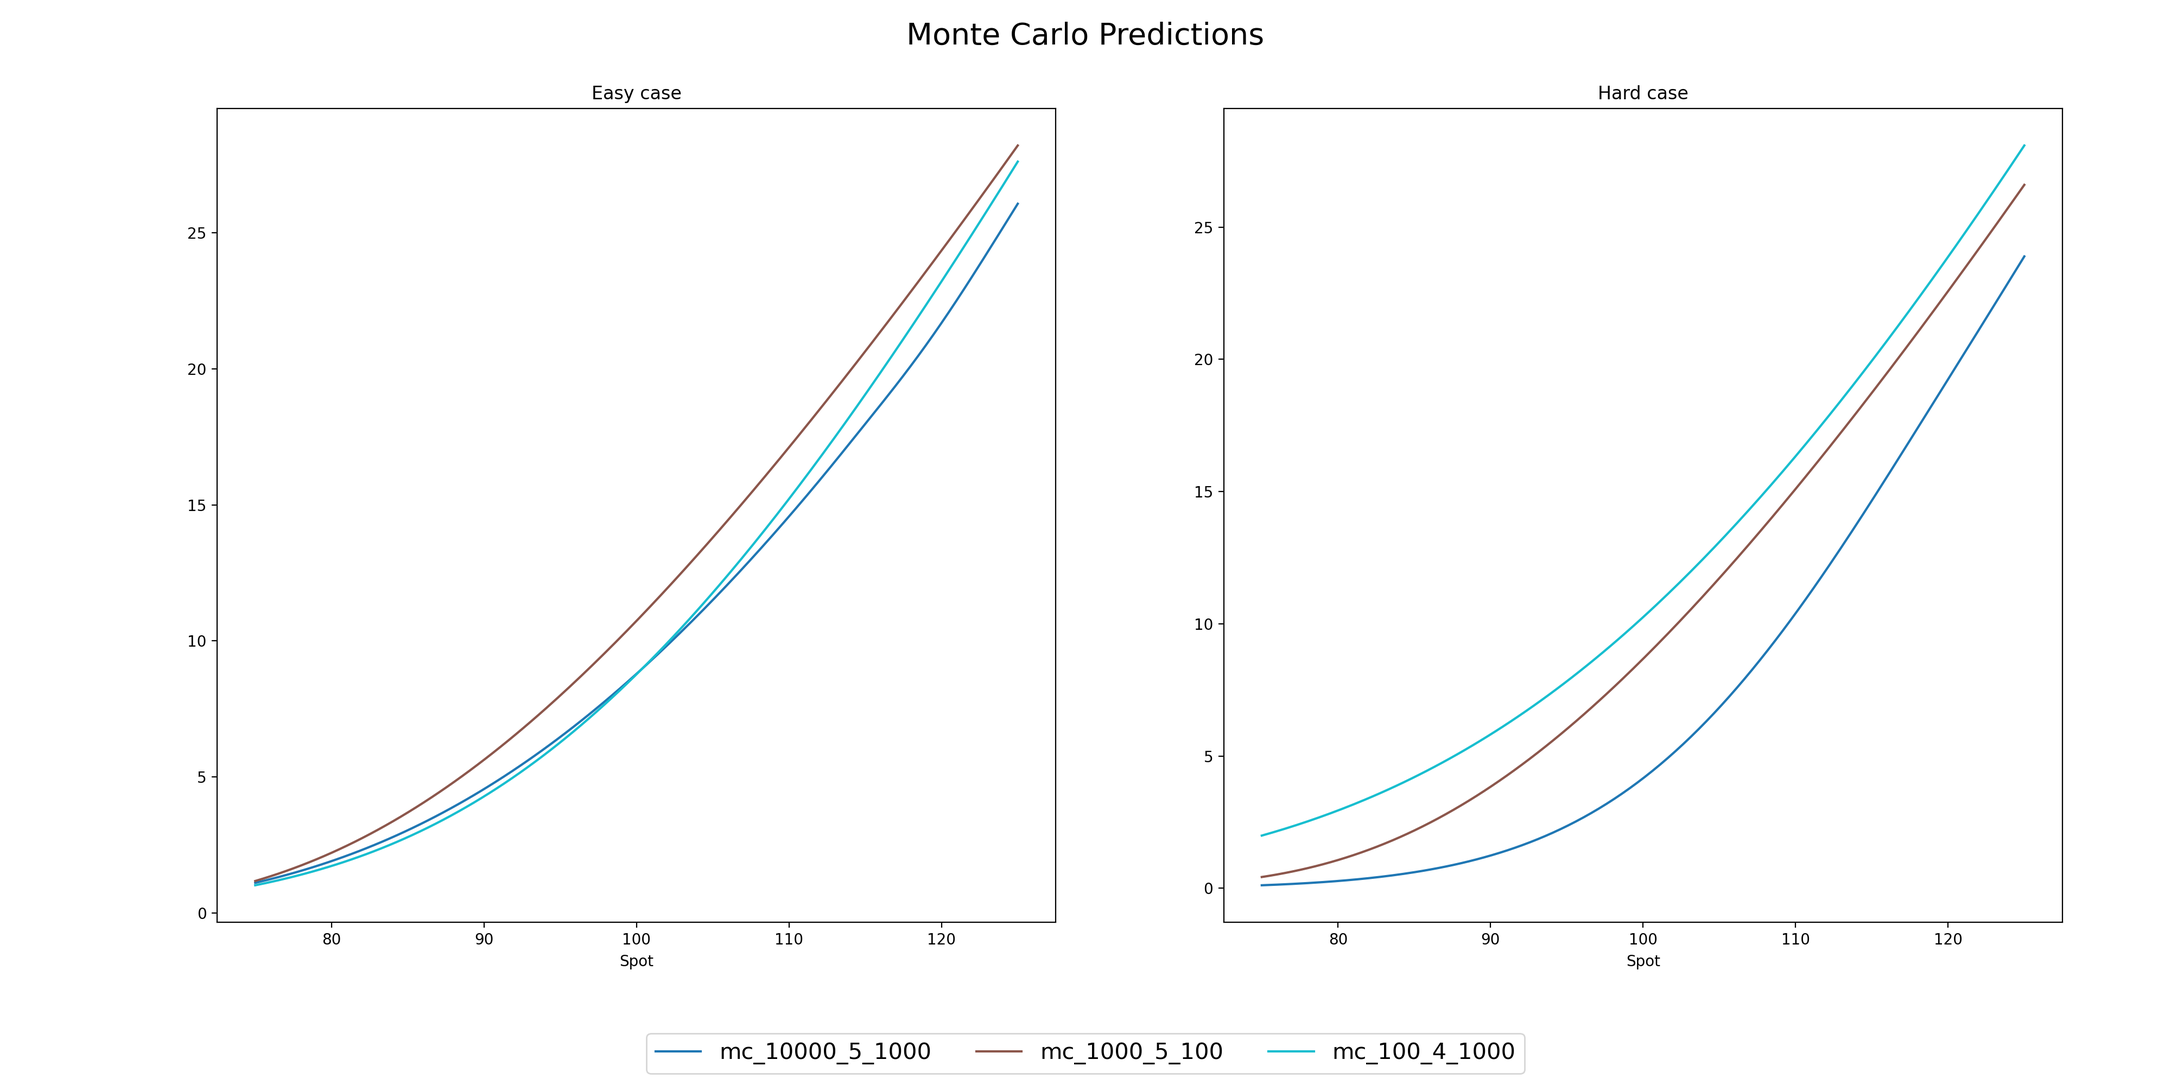
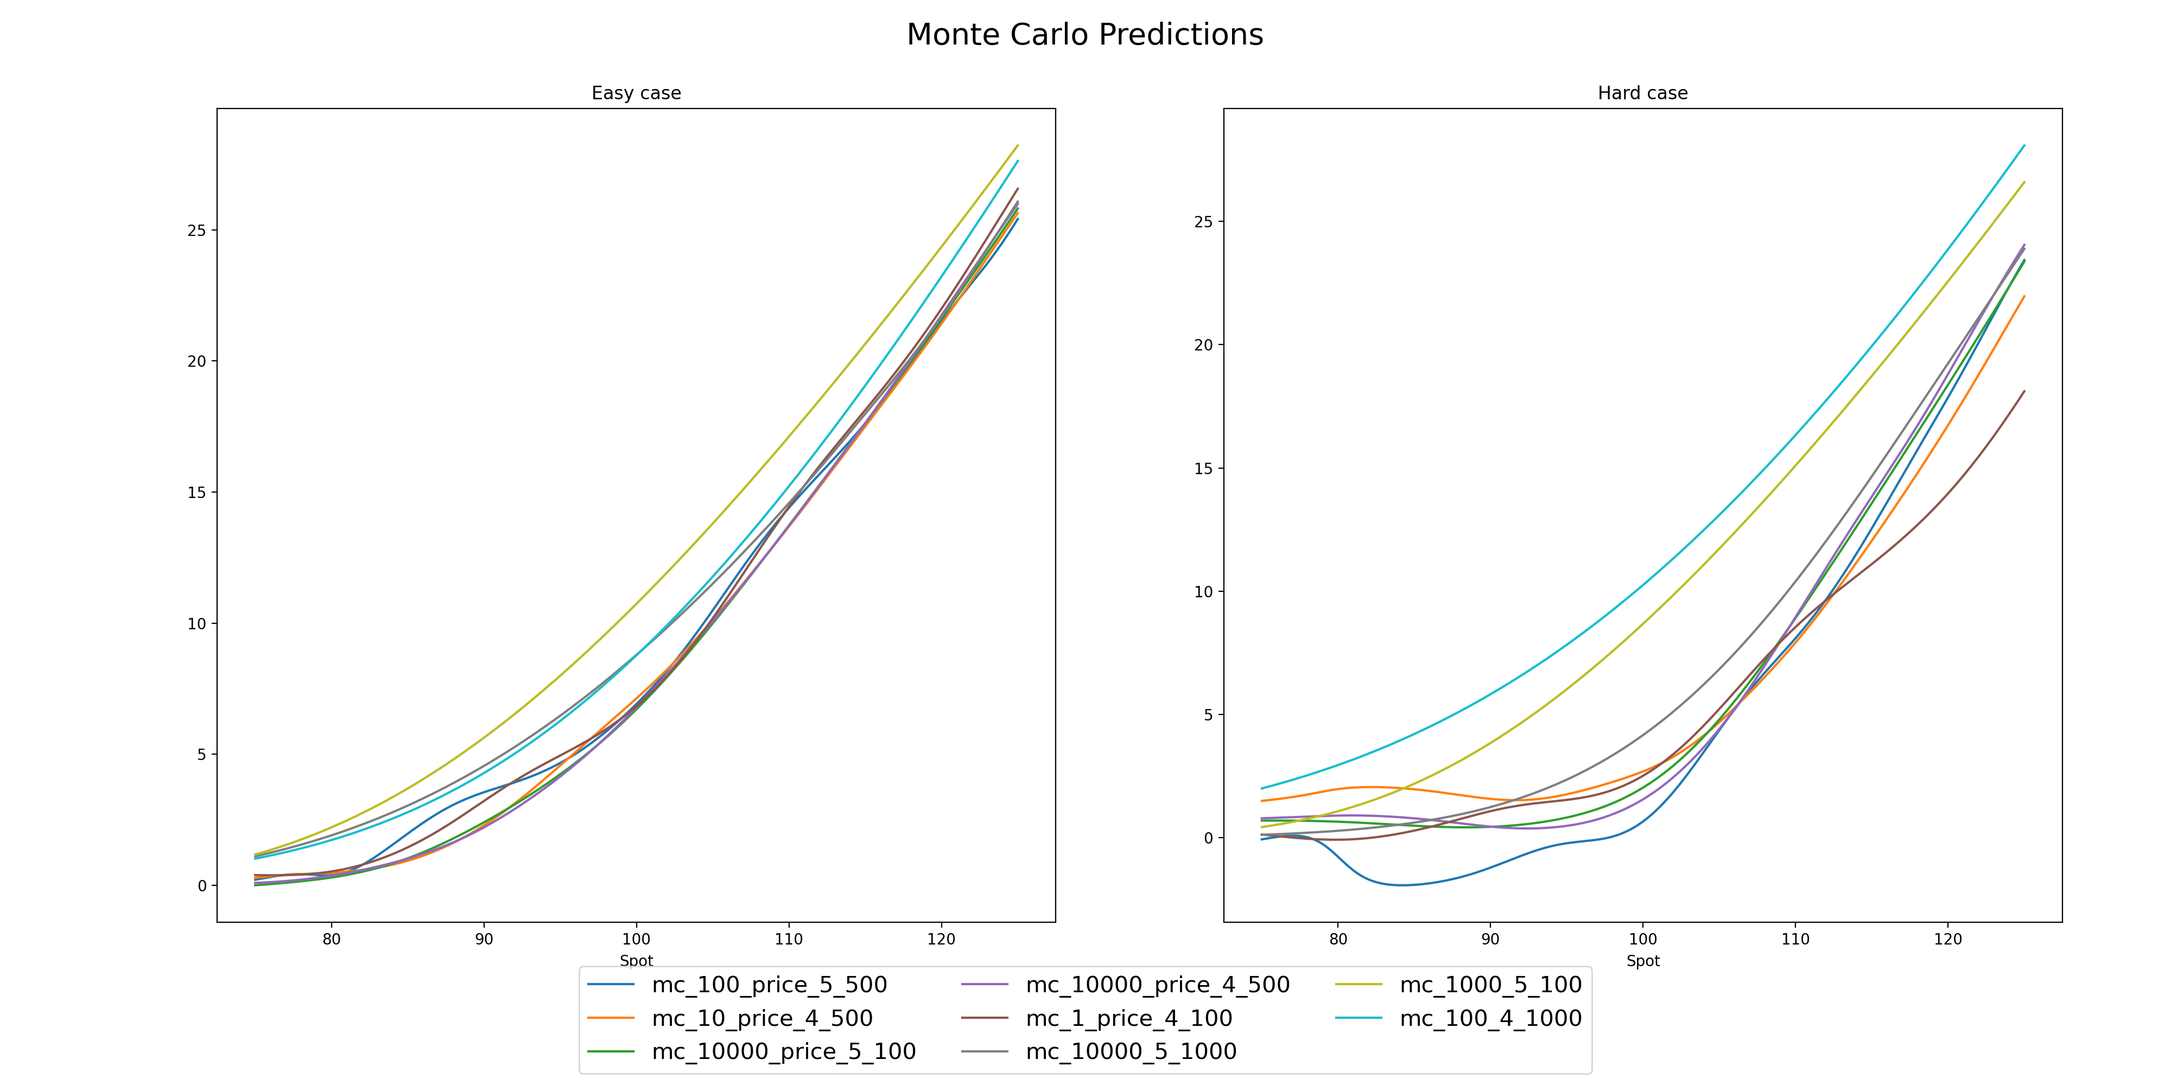
...

diff --git a/Thesis/Heston/LearningRate.py b/Thesis/Heston/LearningRate.py
@@ -1,0 +1,226 @@
+import numpy as np
+import time
+from keras.optimizers import Adam
+from keras.models import Sequential
+from keras.callbacks import LearningRateScheduler, EarlyStopping, ModelCheckpoint
+from sklearn.preprocessing import MinMaxScaler, StandardScaler
+from keras import backend as k
+import tikzplotlib
+import joblib
+import sys
+import os
+import matplotlib.pyplot as plt
+sys.path.append(os.getcwd()) # added for calc server support
+
+from Thesis import NeuralNetworkGenerator as nng
+from Thesis.Heston import DataGeneration as dg, ModelGenerator as mg
+from sklearn.model_selection import train_test_split
+
+def NNModelNext(data_set : list, folder : str, model_name : str, n_layers : int, n_neurons : int, nn_type : str,  output_scaling : str, input_scaling : str, LR_lower : float, LR_upper : float) -> float:
+    def lr_schedule(epoch, rate):
+        lower_lr = LR_lower
+        upper_lr = LR_upper
+        no_epochs = 100
+        peak_epoch = 45
+        if epoch <= peak_epoch:
+            lr = lower_lr + epoch / peak_epoch * (upper_lr - lower_lr)
+        elif peak_epoch < epoch < peak_epoch * 2:
+            lr = upper_lr - (epoch - peak_epoch) / peak_epoch * (upper_lr - lower_lr)
+        else:
+            lr = lower_lr * (1 - (epoch - 2 * peak_epoch) / (no_epochs - 2 * peak_epoch)) * (1 - 1 / 10)
+
+        return lr
+    X_train = data_set[0] 
+    X_test = data_set[1]
+    Y_train = data_set[2]
+    Y_test = data_set[3]
+
+    if input_scaling == "standardize":
+        norm_features = StandardScaler()
+        normal_in = True
+    elif input_scaling == "normalize":
+        norm_features = MinMaxScaler()
+        normal_in = True
+    else:
+        normal_in = False
+    
+
+    if output_scaling == "standardize":
+        norm_labels = StandardScaler()
+        normal_out = True
+    elif output_scaling == "normalize":
+        norm_labels = MinMaxScaler()
+        normal_out = True
+    else:
+        normal_out = False
+
+    if normal_in:
+        X_train = norm_features.fit_transform(X_train)
+        X_test = norm_features.transform(X_test)
+
+    if normal_out:
+        Y_train = norm_labels.fit_transform(Y_train)
+        Y_test = norm_labels.transform(Y_test)
+ 
+
+    if nn_type == "normal":
+        model = nng.NN_generator(n_layers, n_neurons, np.shape(X_train)[1], np.shape(Y_train)[1])
+    elif nn_type == "tanh":
+        model = nng.NN_generator_tanh(n_layers, n_neurons, np.shape(X_train)[1], np.shape(Y_train)[1])
+    elif nn_type == "mix":
+        model = nng.NN_generator_mix(n_layers, n_neurons, np.shape(X_train)[1], np.shape(Y_train)[1])
+    else:
+        model = nng.NN_generator_mix_noise(n_layers, n_neurons, np.shape(X_train)[1], np.shape(Y_train)[1])
+
+    adam = Adam()
+
+    model.compile(
+        loss = 'mean_squared_error', #mean squared error
+        optimizer = adam
+    )
+
+    callbacks_list = [
+        LearningRateScheduler(lr_schedule, verbose = 1)
+    ]
+
+    start_time = time.time()
+    loss_history = model.fit(X_train, Y_train, epochs=100, batch_size=1024, verbose = 1, callbacks = callbacks_list, validation_split = 0.1, shuffle=True)
+    stop_time = time.time()
+
+    return loss_history
+
+def NN_mc_model_1(data_set : list, folder : str, model_name : str, n_layers : int, n_neurons : int, nn_type : str,  output_scaling : str, input_scaling : str, include_zero : bool, LR_lower : float, LR_upper : float, special_type : str = None,) -> float:
+    X_train = data_set[0] 
+    X_test = data_set[1]
+    Y_train = data_set[2]
+    Y_test = data_set[3]
+
+    if special_type == "mat":
+        X_train, Y_train = mg.transform_mat(X_train, Y_train)
+        X_test, Y_test = mg.transform_mat(X_test, Y_test)
+    elif special_type == "single":
+        X_train, Y_train = mg.transform_single(X_train, Y_train)
+        X_test, Y_test = mg.transform_single(X_test, Y_test)
+
+    if include_zero:
+        train_index = np.all(Y_train != -1, axis = 1)
+        test_index = np.all(Y_test != -1, axis = 1)
+    else:
+        train_index = np.all(Y_train > 0, axis = 1)
+        test_index = np.all(Y_test > 0, axis = 1)
+    X_train = X_train[train_index, :]
+    Y_train = Y_train[train_index, :]
+    X_test = X_test[test_index, :]
+    Y_test = Y_test[test_index, :]
+    
+    try:
+        data_set = [X_train, X_test, Y_train, Y_test]
+        score = NNModelNext(data_set, folder, model_name, n_layers, n_neurons, nn_type,  output_scaling, input_scaling, LR_lower, LR_upper)
+
+        return score
+    except:
+        return 0
+
+if __name__ == '__main__':
+    train_index, test_index = mg.load_index(200000)
+    
+    model_input = np.loadtxt("Data/benchmark_input.csv", delimiter = ",")
+    imp_vol = np.loadtxt("Data/benchmark_imp.csv", delimiter=",")
+
+    X_train = model_input[train_index, :]
+    X_test = model_input[test_index, :]
+    Y_train = imp_vol[train_index, :]
+    Y_test = imp_vol[test_index, :]
+
+    data_set_1 = [X_train, X_test, Y_train, Y_test]
+
+    ### Lower LR bound of 10e-4
+    some_history = NN_mc_model_1(data_set_1, "LR", "LR", 5, 100, "normal", "False", "standardize", False, 10e-4, 10e-2)
+
+    ### Lower LR bound of 10e-6
+    some_history2 = NN_mc_model_1(data_set_1, "LR", "LR", 5, 100, "normal", "False", "standardize", False, 10e-6, 10e-4)
+
+    ### Lower LR bound of 10e-8
+    some_history3 = NN_mc_model_1(data_set_1, "LR", "LR", 5, 100, "normal", "False", "standardize", False, 10e-8, 10e-6)
+
+    ### Lower LR bound of 10e-2
+    some_history4 = NN_mc_model_1(data_set_1, "LR", "LR", 5, 100, "normal", "False", "standardize", False, 10e-2, 10e-0)
+
+    ### Lower LR bound of 10e-4, 10 times higher
+    some_history5 = NN_mc_model_1(data_set_1, "LR", "LR", 5, 100, "normal", "False", "standardize", False, 10e-4, 10e-3)
+
+    ### Lower LR bound of 10e-4, 10 times higher
+    some_history6 = NN_mc_model_1(data_set_1, "LR", "LR", 5, 100, "normal", "False", "standardize", False, 10e-5, 10e-3)
+
+"""
+    fig = plt.figure(figsize=(20, 10), dpi = 200)
+    ax = fig.add_subplot(121)
+    ax2 = fig.add_subplot(122)
+    ax.plot(some_history.history["loss"], label="LR, 10e-4, 10e-2")
+    ax.plot(some_history2.history["loss"], label="LR, 10e-6, 10e-4")
+    ax.plot(some_history3.history["loss"], label="LR, 10e-8, 10e-6")
+    ax.plot(some_history4.history["loss"], label="LR, 10e-2, 1")
+    ax.plot(some_history5.history["loss"], label="LR, 10e-4, 10e-3")
+    ax.plot(some_history6.history["loss"], label="LR, 10e-5, 10e-3")
+    ax2.plot(some_history.history["loss"], label="LR, 10e-4, 10e-2")
+    ax2.plot(some_history5.history["loss"], label="LR, 10e-4, 10e-3")
+    ax2.plot(some_history6.history["loss"], label="LR, 10e-5, 10e-3")
+    ax.set_ylabel("Loss", rotation="horizontal", labelpad=15)
+    ax.set_xlabel("Epoch")
+    ax.set_title("Loss w. different LR schedules")
+    ax.set_ylim(0, 0.02)
+    ax.legend(loc="upper right")
+    ax2.set_ylabel("Loss", rotation="horizontal", labelpad=15)
+    ax2.set_xlabel("Epoch")
+    ax2.set_title("Loss w. different LR schedules")
+    ax2.set_ylim(0, 0.0002)
+    ax.legend(loc="upper right")
+    ax2.legend(loc="upper right")
+    plt.savefig("something.png")
+    #tikzplotlib.save("LR_schedule2.tex")
+    plt.close()
+"""
+    ### Lower LR bound of 10e-4
+    some_history21 = NN_mc_model_1(data_set_1, "LR", "LR", 5, 500, "normal", "False", "standardize", False, 10e-4, 10e-2)
+
+    ### Lower LR bound of 10e-6
+    some_history22 = NN_mc_model_1(data_set_1, "LR", "LR", 5, 500, "normal", "False", "standardize", False, 10e-6, 10e-4)
+
+    ### Lower LR bound of 10e-8
+    some_history23 = NN_mc_model_1(data_set_1, "LR", "LR", 5, 500, "normal", "False", "standardize", False, 10e-8, 10e-6)
+
+    ### Lower LR bound of 10e-2
+    some_history24 = NN_mc_model_1(data_set_1, "LR", "LR", 5, 500, "normal", "False", "standardize", False, 10e-2, 10e-0)
+
+    ### Lower LR bound of 10e-4, 10 times higher
+    some_history25 = NN_mc_model_1(data_set_1, "LR", "LR", 5, 500, "normal", "False", "standardize", False, 10e-4, 10e-3)
+
+    ### Lower LR bound of 10e-4, 10 times higher
+    some_history26 = NN_mc_model_1(data_set_1, "LR", "LR", 5, 500, "normal", "False", "standardize", False, 10e-5, 10e-3)
+
+    fig = plt.figure(figsize=(20, 10), dpi = 200)
+    ax = fig.add_subplot(121)
+    ax2 = fig.add_subplot(122)
+    ax.plot(some_history21.history["loss"], label="LR, 10e-4, 10e-2")
+    ax.plot(some_history22.history["loss"], label="LR, 10e-6, 10e-4")
+    ax.plot(some_history23.history["loss"], label="LR, 10e-8, 10e-6")
+    ax.plot(some_history24.history["loss"], label="LR, 10e-2, 1")
+    ax.plot(some_history25.history["loss"], label="LR, 10e-4, 10e-3")
+    ax.plot(some_history26.history["loss"], label="LR, 10e-5, 10e-3")
+    ax2.plot(some_history2.history["loss"], label="LR, 10e-4, 10e-2")
+    ax2.plot(some_history25.history["loss"], label="LR, 10e-4, 10e-3")
+    ax2.plot(some_history26.history["loss"], label="LR, 10e-5, 10e-3")
+    ax.set_ylabel("Loss", rotation="horizontal", labelpad=15)
+    ax.set_xlabel("Epoch")
+    ax.set_title("Loss w. different LR schedules")
+    ax.set_ylim(0, 0.02)
+    ax.legend(loc="upper right")
+    ax2.set_ylabel("Loss", rotation="horizontal", labelpad=15)
+    ax2.set_xlabel("Epoch")
+    ax2.set_title("Loss w. different LR schedules")
+    ax2.set_ylim(0, 0.0002)
+    ax.legend(loc="upper right")
+    ax2.legend(loc="upper right")
+    plt.savefig("something.png")
+    tikzplotlib.save("LR_schedule2.tex")
+    plt.close()

diff --git a/Thesis/Heston/MC_al.py b/Thesis/Heston/MC_al.py
@@ -178,12 +178,12 @@ def model_grads(model_string : str, easy_case : np.ndarray, hard_case : np.ndarr
     else:
         normal_out = False
 
-    if (model_string.find("standardize_mat") != -1):
+    if (model_string.find("mat") != -1):
         option_no = 2
         mat = np.reshape(np.repeat(1.005, np.shape(easy_case)[0]), (-1, 1))
         easy_case = np.concatenate((easy_case, mat), axis = 1)
         hard_case = np.concatenate((hard_case, mat), axis = 1)
-    elif (model_string.find("standardize_single") != -1):
+    elif (model_string.find("single") != -1):
         option_no = 0
         mat = np.reshape(np.repeat(1.005, np.shape(easy_case)[0]), (-1, 1))
         strike = np.reshape(np.repeat(100, np.shape(easy_case)[0]), (-1, 1))
@@ -587,7 +587,7 @@ if __name__ == "__main__":
     standardize_mat_dict = model_grads(standardize_mat, input_good_easy, input_good_hard, some_option)
 
     ### Single models
-    standardize_single = "Models5/standardize_single/standardize_single_5_100.h5"
+    standardize_single = "Models5/standardize_single/standardize_single_2_1000.h5"
     standardize_single_dict = model_grads(standardize_single, input_good_easy, input_good_hard, some_option)
 
     prediction_data = {
@@ -690,20 +690,20 @@ if __name__ == "__main__":
     al_time = time.time() - al_start
 
     ### Monte Carlo
-    mc_1000_price_5_1000 = "Models5/mc_1000_price/mc_1000_price_5_1000.h5"
-    mc_1000_price_5_1000_dict = model_grads(mc_1000_price_5_1000, input_good_easy, input_good_hard, some_option)
+    mc_100_price_5_500 = "Models5/mc_100_price/mc_100_price_5_500.h5"
+    mc_100_price_5_500_dict = model_grads(mc_100_price_5_500, input_good_easy, input_good_hard, some_option)
 
-    mc_10_price_5_50 = "Models5/mc_10_price/mc_10_price_5_50.h5"
-    mc_10_price_5_50_dict = model_grads(mc_10_price_5_50, input_good_easy, input_good_hard, some_option)
+    mc_10_price_4_500 = "Models5/mc_10_price/mc_10_price_4_500.h5"
+    mc_10_price_4_500_dict = model_grads(mc_10_price_4_500, input_good_easy, input_good_hard, some_option)
 
-    mc_10000_price_3_1000 = "Models5/mc_10000_price/mc_10000_price_3_1000.h5"
-    mc_10000_price_3_1000_dict = model_grads(mc_10000_price_3_1000, input_good_easy, input_good_hard, some_option)
+    mc_10000_price_5_100 = "Models5/mc_10000_price/mc_10000_price_5_100.h5"
+    mc_10000_price_5_100_dict = model_grads(mc_10000_price_5_100, input_good_easy, input_good_hard, some_option)
 
-    mc_100_price_4_500 = "Models5/mc_100_price/mc_100_price_4_500.h5"
-    mc_100_price_4_500_dict = model_grads(mc_100_price_4_500, input_good_easy, input_good_hard, some_option)
+    mc_10000_price_4_500 = "Models5/mc_10000_price/mc_10000_price_4_500.h5"
+    mc_10000_price_4_500_dict = model_grads(mc_10000_price_4_500, input_good_easy, input_good_hard, some_option)
 
-    mc_1_price_2_1000 = "Models5/mc_1_price/mc_1_price_2_1000.h5"
-    mc_1_price_2_1000_dict = model_grads(mc_1_price_2_1000, input_good_easy, input_good_hard, some_option)
+    mc_1_price_4_100 = "Models5/mc_1_price/mc_1_price_4_100.h5"
+    mc_1_price_4_100_dict = model_grads(mc_1_price_4_100, input_good_easy, input_good_hard, some_option)
 
     mc_10000_5_1000 = "Models5/mc_10000/mc_10000_5_1000.h5"
     mc_10000_5_1000_dict = model_grads(mc_10000_5_1000, input_good_easy, input_good_hard, some_option)
@@ -715,33 +715,33 @@ if __name__ == "__main__":
     mc_100_4_1000_dict = model_grads(mc_100_4_1000, input_good_easy, input_good_hard, some_option)
 
     mc_prediction_data = {
-        #"mc_1000_price_5_1000" : [mc_1000_price_5_1000_dict["pred"][0], mc_1000_price_5_1000_dict["pred"][1]],
-        #"mc_10_price_5_50" : [mc_10_price_5_50_dict["pred"][0], mc_10_price_5_50_dict["pred"][1]],
-        #"mc_10000_price_3_1000" : [mc_10000_price_3_1000_dict["pred"][0], mc_10000_price_3_1000_dict["pred"][1]],
-        #"mc_100_price_4_500" : [mc_100_price_4_500_dict["pred"][0], mc_100_price_4_500_dict["pred"][1]],
-        #"mc_1_price_2_1000" : [mc_1_price_2_1000_dict["pred"][0], mc_1_price_2_1000_dict["pred"][1]],
+        "mc_100_price_5_500" : [mc_100_price_5_500_dict["pred"][0], mc_100_price_5_500_dict["pred"][1]],
+        "mc_10_price_4_500" : [mc_10_price_4_500_dict["pred"][0], mc_10_price_4_500_dict["pred"][1]],
+        "mc_10000_price_5_100" : [mc_10000_price_5_100_dict["pred"][0], mc_10000_price_5_100_dict["pred"][1]],
+        "mc_10000_price_4_500" : [mc_10000_price_4_500_dict["pred"][0], mc_10000_price_4_500_dict["pred"][1]],
+        "mc_1_price_4_100" : [mc_1_price_4_100_dict["pred"][0], mc_1_price_4_100_dict["pred"][1]],
         "mc_10000_5_1000" : [mc_10000_5_1000_dict["pred"][0], mc_10000_5_1000_dict["pred"][1]],
         "mc_1000_5_100" : [mc_1000_5_100_dict["pred"][0], mc_1000_5_100_dict["pred"][1]],
         "mc_100_4_1000" : [mc_100_4_1000_dict["pred"][0], mc_100_4_1000_dict["pred"][1]]
     }
 
     mc_delta_data= {
-        #"mc_1000_price_5_1000" : [mc_1000_price_5_1000_dict["delta"][0], mc_1000_price_5_1000_dict["delta"][1]],
-        #"mc_10_price_5_50" : [mc_10_price_5_50_dict["delta"][0], mc_10_price_5_50_dict["delta"][1]],
-        #"mc_10000_price_3_1000" : [mc_10000_price_3_1000_dict["delta"][0], mc_10000_price_3_1000_dict["delta"][1]],
-        #"mc_100_price_4_500" : [mc_100_price_4_500_dict["delta"][0], mc_100_price_4_500_dict["delta"][1]],
-        #"mc_1_price_2_1000" : [mc_1_price_2_1000_dict["delta"][0], mc_1_price_2_1000_dict["delta"][1]],
+        "mc_100_price_5_500" : [mc_100_price_5_500_dict["delta"][0], mc_100_price_5_500_dict["delta"][1]],
+        "mc_10_price_4_500" : [mc_10_price_4_500_dict["delta"][0], mc_10_price_4_500_dict["delta"][1]],
+        "mc_10000_price_5_100" : [mc_10000_price_5_100_dict["delta"][0], mc_10000_price_5_100_dict["delta"][1]],
+        "mc_10000_price_4_500" : [mc_10000_price_4_500_dict["delta"][0], mc_10000_price_4_500_dict["delta"][1]],
+        "mc_1_price_4_100" : [mc_1_price_4_100_dict["delta"][0], mc_1_price_4_100_dict["delta"][1]],
         "mc_10000_5_1000" : [mc_10000_5_1000_dict["delta"][0], mc_10000_5_1000_dict["delta"][1]],
         "mc_1000_5_100" : [mc_1000_5_100_dict["delta"][0], mc_1000_5_100_dict["delta"][1]],
         "mc_100_4_1000" : [mc_100_4_1000_dict["delta"][0], mc_100_4_1000_dict["delta"][1]]
     }
 
     mc_gamma_data = {
-        #"mc_1000_price_5_1000" : [mc_1000_price_5_1000_dict["gamma"][0], mc_1000_price_5_1000_dict["gamma"][1]],
-        #"mc_10_price_5_50" : [mc_10_price_5_50_dict["gamma"][0], mc_10_price_5_50_dict["gamma"][1]],
-        #"mc_10000_price_3_1000" : [mc_10000_price_3_1000_dict["gamma"][0], mc_10000_price_3_1000_dict["gamma"][1]],
-        #"mc_100_price_4_500" : [mc_100_price_4_500_dict["gamma"][0], mc_100_price_4_500_dict["gamma"][1]],
-        #"mc_1_price_2_1000" : [mc_1_price_2_1000_dict["gamma"][0], mc_1_price_2_1000_dict["gamma"][1]],
+        "mc_100_price_5_500" : [mc_100_price_5_500_dict["gamma"][0], mc_100_price_5_500_dict["gamma"][1]],
+        "mc_10_price_4_500" : [mc_10_price_4_500_dict["gamma"][0], mc_10_price_4_500_dict["gamma"][1]],
+        "mc_10000_price_5_100" : [mc_10000_price_5_100_dict["gamma"][0], mc_10000_price_5_100_dict["gamma"][1]],
+        "mc_10000_price_4_500" : [mc_10000_price_4_500_dict["gamma"][0], mc_10000_price_4_500_dict["gamma"][1]],
+        "mc_1_price_4_100" : [mc_1_price_4_100_dict["gamma"][0], mc_1_price_4_100_dict["gamma"][1]],
         "mc_10000_5_1000" : [mc_10000_5_1000_dict["gamma"][0], mc_10000_5_1000_dict["gamma"][1]],
         "mc_1000_5_100" : [mc_1000_5_100_dict["gamma"][0], mc_1000_5_100_dict["gamma"][1]],
         "mc_100_4_1000" : [mc_100_4_1000_dict["gamma"][0], mc_100_4_1000_dict["gamma"][1]]

diff --git a/Thesis/Heston/ModelGenerator.py b/Thesis/Heston/ModelGenerator.py
@@ -163,6 +163,10 @@ if __name__ == '__main__':
         itertools.repeat("standardize"), layer_neuron_combs[:, 0], layer_neuron_combs[:, 1], \
         itertools.repeat("normal"), itertools.repeat("False"), itertools.repeat("standardize"), itertools.repeat(False)))
 
+    standardize_new_LR_list = list(zip(itertools.repeat(data_set_1), itertools.repeat("standardize_new_LR"), \
+        itertools.repeat("standardize_new_LR"), layer_neuron_combs[:, 0], layer_neuron_combs[:, 1], \
+        itertools.repeat("normal"), itertools.repeat("False"), itertools.repeat("standardize"), itertools.repeat(False)))
+
     standardize_single_list = list(zip(itertools.repeat(data_set_single), itertools.repeat("standardize_single"), \
         itertools.repeat("standardize_single"), layer_neuron_combs[:, 0], layer_neuron_combs[:, 1], \
         itertools.repeat("normal"), itertools.repeat("False"), itertools.repeat("standardize"), itertools.repeat(False)))
@@ -227,5 +231,5 @@ if __name__ == '__main__':
         cpu_cores = int(min(cpu_count()/4, 16))
 
     pool = Pool(cpu_cores)
-    res = pool.starmap(mg.NN_mc_model_1, standardize_mat_list, chunksize=1)
+    res = pool.starmap(mg.NN_mc_model_1, standardize_new_LR_list, chunksize=1)
     pool.close()

diff --git a/Thesis/Heston/ModelTesting.py b/Thesis/Heston/ModelTesting.py
@@ -721,7 +721,8 @@ if __name__ == "__main__":
 
     ### Monte Carlo
     mc = [
-        "mc_10", "mc_100", "mc_1000", "mc_10000", "mc_1_price", "mc_10_price", "mc_100_price", "mc_1000_price", "mc_10000_price"
+        "mc_10", "mc_100", "mc_1000", "mc_10000", "mc_1_price", "mc_10_price", "mc_100_price", "mc_1000_price", "mc_10000_price",
+        "mc_1_mat", "mc_10_mat", "mc_100_mat", "mc_1000_mat", "mc_10000_mat"
     ]
 
     mc_list = []
@@ -782,6 +783,16 @@ if __name__ == "__main__":
 
     with open("standardize_mat_mse.pkl", "rb") as fp:   # Unpickling
         standardize_mat_mse = pickle.load(fp)
+
+    standardize_single = glob.glob("Models5/standardize_single/*.h5")
+    standardize_single_mse = model_test_set(standardize_single, X_test, Y_test, Y_test_price)
+    standardize_single_mse.sort(key = lambda x: x[1])
+
+    with open("standardize_single_mse.pkl", "wb") as fp:   #Pickling
+        pickle.dump(standardize_single_mse, fp)
+
+    with open("standardize_single_mse.pkl", "rb") as fp:   # Unpickling
+        standardize_single_mse = pickle.load(fp)
 
     """
     grid_vs_sobol = glob.glob("Models4/grid_vs_sobol/*.h5")

diff --git a/Thesis/Heston/NNModelGenerator.py b/Thesis/Heston/NNModelGenerator.py
@@ -15,7 +15,7 @@ from Thesis.Heston import DataGeneration as dg, ModelGenerator as mg
 from sklearn.model_selection import train_test_split
 
 def lr_schedule(epoch, rate):
-    lower_lr = 1e-4
+    lower_lr = 1e-5
     upper_lr = lower_lr * 100
     no_epochs = 100
     peak_epoch = 45
